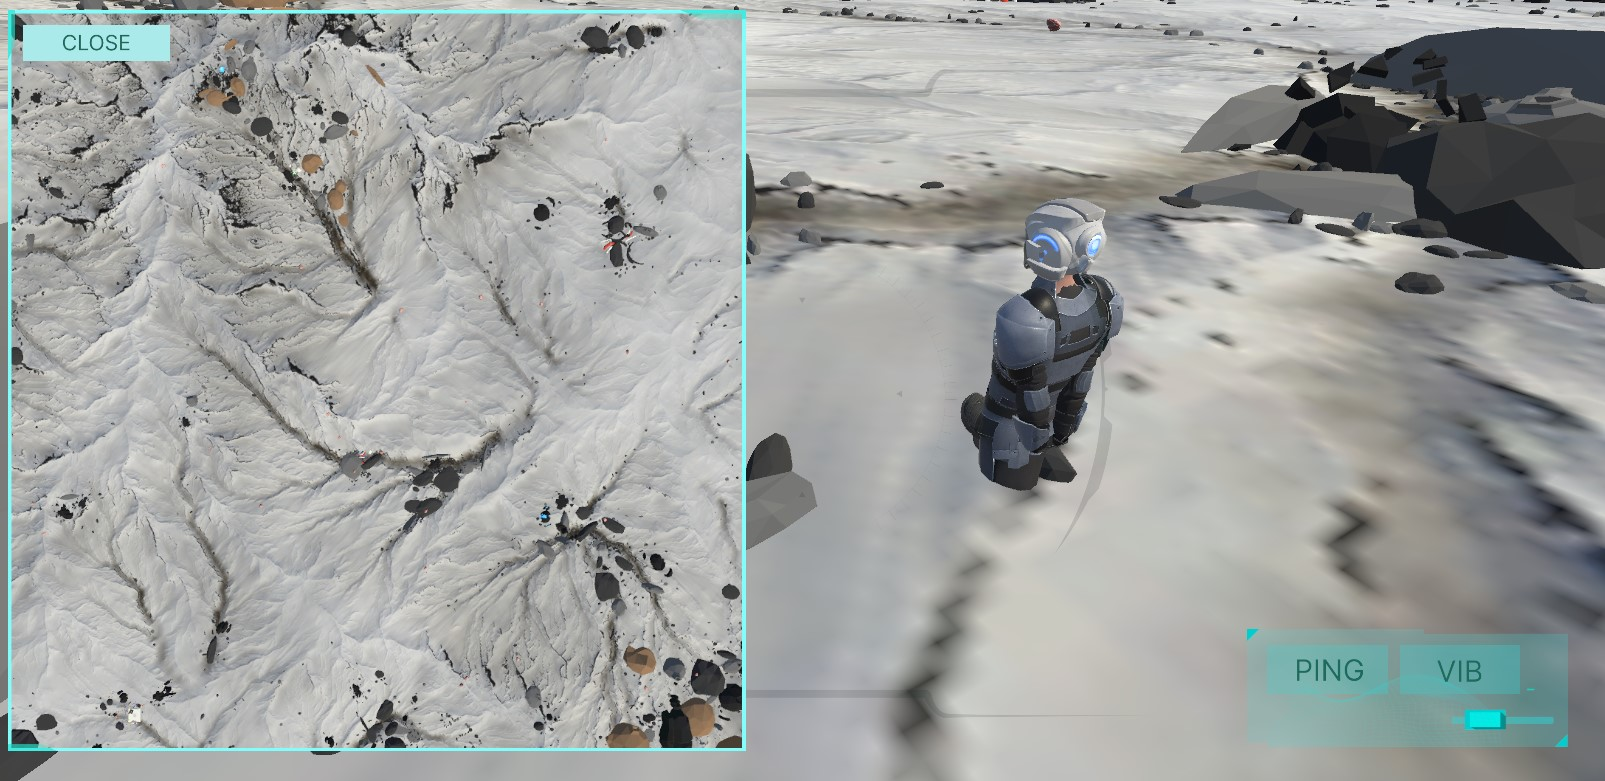
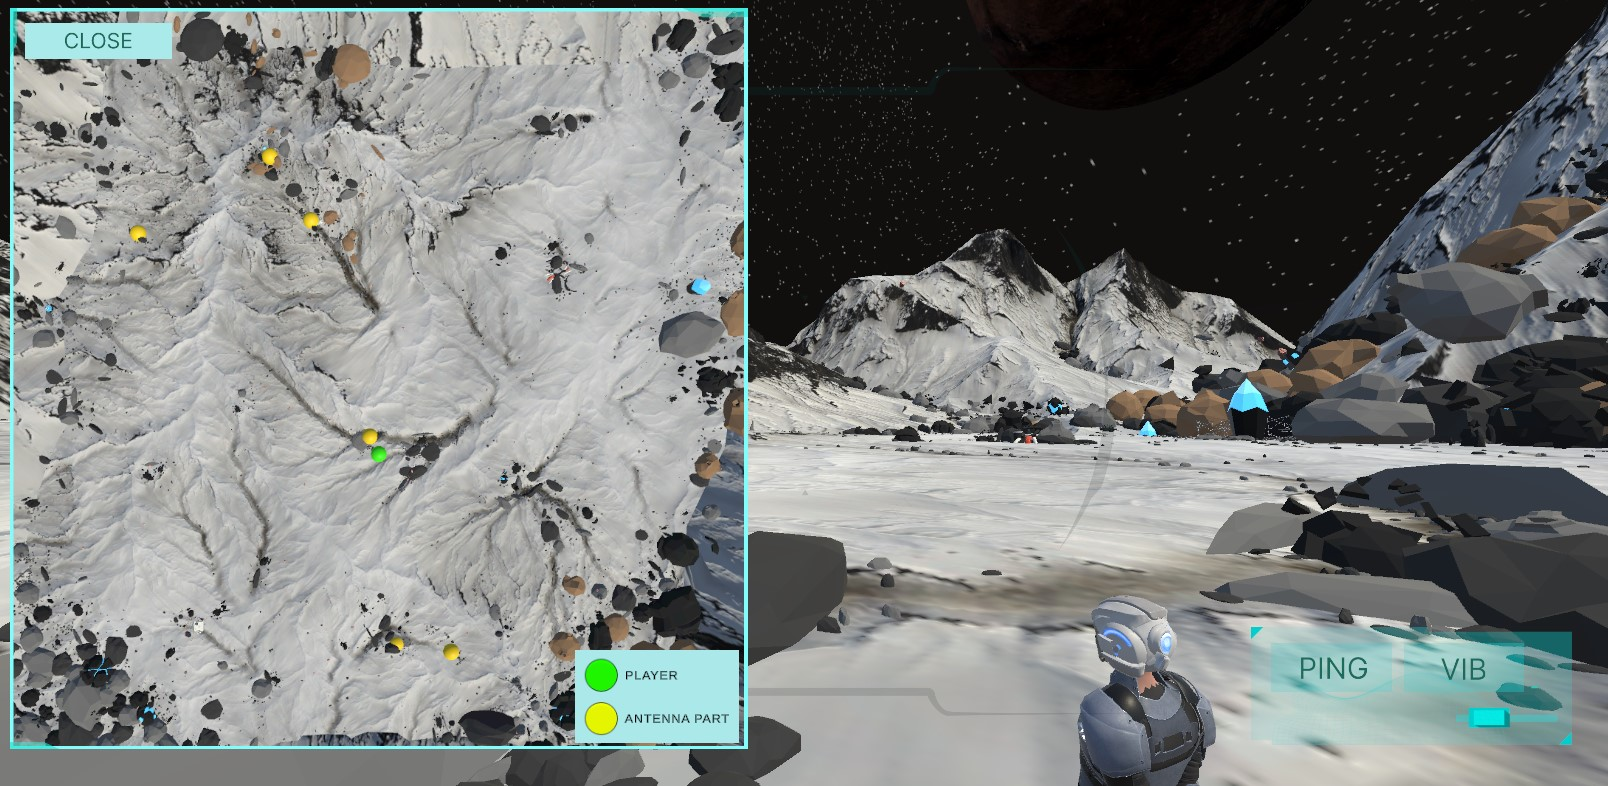
changes in features.md layout and text, minor changes in _index.md

diff --git a/content/ss22/master/m2_4-fixIT-communication-is-everything/features.md b/content/ss22/master/m2_4-fixIT-communication-is-everything/features.md
@@ -6,126 +6,106 @@ weight = 1
 
 {{<section title="Extendable first version" >}}
 Throughout the semester we were able to design and develop a first version of our game. 
-Due to the limited time, we had to set aside many ideas and compromise on several aspects of the final game design. 
-Keeping that in mind, we made sure to design all aspects of our game intuitively and with a flat code structure so 
-that the software remains easily extensible. Additionally, we created a documentation of all the tools, assets and 
-further preparations that are needed to get this project up and running.
+Due to the limited time we had to set aside many ideas and compromise on several aspects of the final game design. 
+Keeping that in mind, we made sure to design all aspects of our game intuitively so that the software remains easily 
+extensible. Additionally, we created a documentation of all the tools, assets and further preparations that are 
+needed to get this project up and running.
+
 {{</section>}}
 
 {{<section title="In-game tasks" >}}
 The core mechanic of the game is to exchange non-verbal information between players on different terminal devices. 
-Therefore, we created a setup where information was distributed between the two players so that it was necessary to 
+Therefore, we created a setup where information was distributed between the two players so that it is necessary to 
 exchange instructions to solve all the tasks presented during the game.
 
-We created a scenario where the VR player was teleported to a lost planet to repair a broken and lost onboard-antenna. 
-The PC player stayed behind on the spaceship to monitor the other player's activities and retrieve important 
+We created a scenario where the VR player is teleported to a lonely planet to repair a broken onboard antenna. 
+The PC player stays behind on the spaceship to monitor the other player's activities and retrieve important 
 information from the ship's computer.
 
-<div style="display: table; clear: both">
-    <div style="float: left; height: 250px; width: 50%; padding: 0 10px;">
-        <iframe style="display: block; margin-left: auto; margin-right: auto; overflow: hidden; border: 0" src="https://mediathek.htw-berlin.de/media/embed?key=0910771e56f49906f7deabbfe9bb881e&width=720&height=540&autoplay=false&controls=true&autolightsoff=false&loop=false&chapters=false&playlist=false&related=false&responsive=false&t=0&loadonclick=true&thumb=true" data-src="https://mediathek.htw-berlin.de/media/embed?key=0910771e56f49906f7deabbfe9bb881e&width=720&height=540&autoplay=false&controls=true&autolightsoff=false&loop=false&chapters=false&playlist=false&related=false&responsive=false&t=0&loadonclick=true" class="" width="300" height="165" allowfullscreen="allowfullscreen" allowtransparency="true" aria-label="media embed code"></iframe>
-        <p style="color:#ff7578; text-transform: uppercase; text-align: center">VR view in environment</p>
-    </div>
-    <div style="float: left; height: 250px; width: 50%; padding: 0 10px;">
-        <img style="display: block; margin-left: auto; margin-right: auto;" src="/ss22/master/m2_4-fixit-communication-is-everything/pc_view_with_open_minimap.jpg" alt="pc view with opened minimap">
-        <p style="color:#ff7578; text-transform: uppercase; text-align: center">PC view with opened minimap</p>
-    </div>
-</div>
-
-
+<figure>
+    <iframe src="https://mediathek.htw-berlin.de/media/embed?key=0910771e56f49906f7deabbfe9bb881e&width=720&height=405&autoplay=false&controls=true&autolightsoff=false&loop=false&chapters=false&playlist=false&related=false&responsive=false&t=0&loadonclick=true&thumb=true" data-src="https://mediathek.htw-berlin.de/media/embed?key=0910771e56f49906f7deabbfe9bb881e&width=720&height=405&autoplay=false&controls=true&autolightsoff=false&loop=false&chapters=false&playlist=false&related=false&responsive=false&t=0&loadonclick=true" class="" width="720" height="405" frameborder="0" allowfullscreen="allowfullscreen" allowtransparency="true" scrolling="no" aria-label="media embed code" style="display: block; margin: 0 auto"></iframe>
+    <p style="color:#ff7578; text-transform: uppercase; text-align: center; margin-top: 10px">An insight of the VR environment</p>
+</figure>
 #### Calibration of desk
-One of the first tasks that needed to be solved by the VR player, was the calibration of a real-world desk. 
-This did not only ensure that the player got familiar with the virtual environment and the controls of the game it was 
-also vital for the subsequent gameplay. Since we included a table in the real-world as a haptic element, we needed to 
-make sure that the player was always protected while walking and teleporting around the environment freely.  
-Therefore, we installed safe walls around the virtual table that prevented the player from bumping into the real-world table.
+One of the first tasks that needs to be solved by the VR player, is the calibration of a real-world desk. 
+This does not only ensure that the player gets familiar with the virtual environment and the controls of the game it 
+is also vital for the subsequent gameplay. Since we included a table in the real-world as a haptic element, we needed 
+to make sure that the player is always protected while walking and teleporting around the environment freely. 
+Therefore, we installed safe walls around the virtual table that prevented the player from bumping into the table.
 
 <figure>
-<iframe src="https://mediathek.htw-berlin.de/media/embed?key=b1b17b0f84861e66fabb6fca24100006&width=720&height=401&autoplay=false&controls=true&autolightsoff=false&loop=false&chapters=false&playlist=false&related=false&responsive=false&t=0&loadonclick=true&thumb=true" data-src="https://mediathek.htw-berlin.de/media/embed?key=b1b17b0f84861e66fabb6fca24100006&width=720&height=401&autoplay=false&controls=true&autolightsoff=false&loop=false&chapters=false&playlist=false&related=false&responsive=false&t=0&loadonclick=true" class="" width="720" height="401" allowfullscreen="allowfullscreen" allowtransparency="true" aria-label="media embed code" style="overflow: hidden; border: 0"></iframe>
-<p style="color:#ff7578; text-transform: uppercase; text-align: center">Calibration of the safe walls</p>
+    <iframe src="https://mediathek.htw-berlin.de/media/embed?key=b1b17b0f84861e66fabb6fca24100006&width=720&height=401&autoplay=false&controls=true&autolightsoff=false&loop=false&chapters=false&playlist=false&related=false&responsive=false&t=0&loadonclick=true&thumb=true" data-src="https://mediathek.htw-berlin.de/media/embed?key=b1b17b0f84861e66fabb6fca24100006&width=720&height=401&autoplay=false&controls=true&autolightsoff=false&loop=false&chapters=false&playlist=false&related=false&responsive=false&t=0&loadonclick=true" class="" width="720" height="401" frameborder="0" allowfullscreen="allowfullscreen" allowtransparency="true" scrolling="no" aria-label="media embed code" style="display: block; margin: 0 auto"></iframe>
+    <p style="color:#ff7578; text-transform: uppercase; text-align: center; margin-top: 10px">Calibration of the safe walls</p>
 </figure>
 
 #### Finding antenna parts
-During the first part the VR player had to find a total of six lost antenna parts randomly hidden in the environment. 
-The PC player had access to a minimap that displayed the locations of the parts. Once the VR player found an antenna 
-part, it could be stowed away in an item pouch and automatically appeared on the table as the game progressed.
+During the first part the VR player has to find a total of six lost antenna parts randomly hidden in the environment.
+Once the VR player found an antenna part, it can be stowed away in an item pouch and automatically appears on the 
+table as the game progressed. The PC player meanwhile has access to a minimap that displays the locations of the parts.
 
+{{<image src="pc_view_with_open_minimap.jpg" alt="pc view with opened minimap" caption="PC view with opened minimap">}}
+
+
+We included three haptic elements to facilitate communication between the players. 
+To convey spatial information, the PC player can firstly set off a vibration signal to the VR controllers. The speed with which the PC player presses the corresponding button 
+gives the player in VR information about how close or far away the next antenna part is.
+
+Additionally, we set up a button that enables the PC player to trigger a sound signal on the VR headset. 
+This not only serves to convey location information, but also provides the ability to give audible feedback to the 
+VR players as they solved tasks.
+
+Lastly, the VR player can also use the controller to draw on the ground. The PC player can control the camera that 
+follows the VR avatar to zoom in on the drawings.
+
+<figure>
+    <iframe src="https://mediathek.htw-berlin.de/media/embed?key=78c90c9eb3ccca9e3acc48b16efa313a&width=720&height=405&autoplay=false&controls=true&autolightsoff=false&loop=false&chapters=false&playlist=false&related=false&responsive=false&t=0&loadonclick=true&thumb=true" data-src="https://mediathek.htw-berlin.de/media/embed?key=78c90c9eb3ccca9e3acc48b16efa313a&width=720&height=405&autoplay=false&controls=true&autolightsoff=false&loop=false&chapters=false&playlist=false&related=false&responsive=false&t=0&loadonclick=true" class="" width="720" height="405" frameborder="0" allowfullscreen="allowfullscreen" allowtransparency="true" scrolling="no" aria-label="media embed code" style="display: block; margin: 0 auto"></iframe>
+    <p style="color:#ff7578; text-transform: uppercase; text-align: center; margin-top: 10px">Drawing on the floor with controller</p>
+</figure>
 #### Assembling the antenna
-After all parts had been found, the VR player had to assemble them correctly. The corresponding instructions were 
-provided to the PC player in the form of a video. The VR player had three attempts to assemble the antenna correctly, 
-while each antenna part could be removed and placed again individually. If the task wasn’t accomplished, we presented 
-an option to automatically assemble the antenna correctly.
+After all parts are found, the VR player must assemble them correctly. The corresponding instructions are provided 
+to the PC player in the form of a video. The PC player must now draw these instructions on a notepad, simply using 
+the computer mouse or, alternatively, a drawing trackpad. The drawings appear next to the VR player on a display.
 
-<div style="display: table; clear: both; width:720px ">
-    <div style="float: left; height: 250px; width: 50%; padding: 10px 10px 0 10px;">
-        <iframe style="display: block; margin-left: auto; margin-right: auto; overflow: hidden; border: 0" src="https://mediathek.htw-berlin.de/media/embed?key=1e476480785fe71a378e6a364ca3bfdf&width=720&height=405&autoplay=true&controls=true&autolightsoff=false&loop=true&chapters=false&playlist=false&related=false&responsive=false&t=0&loadonclick=true&thumb=true" data-src="https://mediathek.htw-berlin.de/media/embed?key=1e476480785fe71a378e6a364ca3bfdf&width=720&height=405&autoplay=true&controls=true&autolightsoff=false&loop=true&chapters=false&playlist=false&related=false&responsive=false&t=0&loadonclick=true" class="" width="300" height="168" allowfullscreen="allowfullscreen" allowtransparency="true" aria-label="media embed code"></iframe>
-        <p style="color:#ff7578; text-transform: uppercase;  text-align: center">Assembling antenna in VR</p>
-    </div>
-    <div style="float: left; height: 250px; width: 50%; padding: 0 10px;">
-        <iframe style="display: block; margin-left: auto; margin-right: auto; margin-bottom: 10px; overflow: hidden; border: 0" src="https://mediathek.htw-berlin.de/media/embed?key=5d653196a2df4273f1eee5a1f9a08e55&width=720&height=405&autoplay=true&controls=true&autolightsoff=false&loop=true&chapters=false&playlist=false&related=false&responsive=false&t=0&loadonclick=true&thumb=true" data-src="https://mediathek.htw-berlin.de/media/embed?key=5d653196a2df4273f1eee5a1f9a08e55&width=720&height=405&autoplay=true&controls=true&autolightsoff=false&loop=true&chapters=false&playlist=false&related=false&responsive=false&t=0&loadonclick=true" class="" width="300" height="168" allowfullscreen="allowfullscreen" allowtransparency="true" aria-label="media embed code"></iframe>
-        <p style="color:#ff7578; text-transform: uppercase; text-align: center">Assembling antenna in real life</p>
-    </div>
-</div>
+<figure>
+    <iframe src="https://mediathek.htw-berlin.de/media/embed?key=63ef76467742db9951f5b93c0b54a2e8&width=720&height=405&autoplay=false&controls=true&autolightsoff=false&loop=false&chapters=false&playlist=false&related=false&responsive=false&t=0&loadonclick=true&thumb=true" data-src="https://mediathek.htw-berlin.de/media/embed?key=63ef76467742db9951f5b93c0b54a2e8&width=720&height=405&autoplay=false&controls=true&autolightsoff=false&loop=false&chapters=false&playlist=false&related=false&responsive=false&t=0&loadonclick=true" class="" width="720" height="405" frameborder="0" allowfullscreen="allowfullscreen" allowtransparency="true" scrolling="no" aria-label="media embed code" style="display: block; margin: 0 auto"></iframe>
+    <p style="color:#ff7578; text-transform: uppercase; text-align: center; margin-top: 10px">PC to VR drawing instructions for assembly</p>
+</figure>
+
+With these communication technologies, the VR player has three attempts to assemble the antenna correctly, while 
+each antenna part can be removed and placed again individually. If the task can’t be accomplished, an option 
+appears to automatically assemble the antenna correctly for the player.
+
+<figure>
+    <iframe src="https://mediathek.htw-berlin.de/media/embed?key=87dcc43aec6f64ec24ae82903585065a&width=720&height=405&autoplay=false&controls=true&autolightsoff=false&loop=false&chapters=false&playlist=false&related=false&responsive=false&t=0&loadonclick=true&thumb=true" data-src="https://mediathek.htw-berlin.de/media/embed?key=87dcc43aec6f64ec24ae82903585065a&width=720&height=405&autoplay=false&controls=true&autolightsoff=false&loop=false&chapters=false&playlist=false&related=false&responsive=false&t=0&loadonclick=true" class="" width="720" height="405" frameborder="0" allowfullscreen="allowfullscreen" allowtransparency="true" scrolling="no" aria-label="media embed code" style="display: block; margin: 0 auto"></iframe>
+    <p style="color:#ff7578; text-transform: uppercase; text-align: center; margin-top: 10px">Assembling the antenna - VR vs real life</p>
+</figure>
 
 #### Choosing correct buttons
-As a final task, the PC player was shown a control panel on which buttons with different runes were displayed. 
-The VR player was now shown which symbols should be pressed and in which order. The completion of the task activated 
-the antenna and triggered a final video that showed the activation of the antenna and how the VR player was teleported 
-back to the spacecraft.
-
+As a final task, the PC player is presented with a control panel that displays buttons with various runes.
 {{<image src="pc_view_with_open_controlpanel.jpg" alt="PC View with opened control panel" caption="PC GUI with opened control panel">}}
 
-{{</section>}}
+The VR player is now shown which buttons should be pressed and in which order. The VR player can also draw with 
+their finger on a predetermined area on the real-world table. Once the task is completed the antenna 
+is activated and triggers a final video that shows how the VR player was teleported back to the spacecraft.
 
-{{<section title="Haptics" >}}
-#### Vibration
-To convey spatial information, the PC player was able to set of a vibration signal to the VR controllers. 
-The speed with which the PC player pressed the corresponding button gave the player in VR information about how close 
-or far away the next antenna part was.
-
-#### Sound signal
-Similarly, we set up a button that enabled the PC player to trigger a sound signal on the VR headset. 
-This not only served to convey location information, but also provided the ability to give audible feedback to the VR 
-players as they solved tasks.
-
-#### Drawing with controller & hands
-Both players were able to draw at certain points during the game. On the PC, this was done simply with the computer 
-mouse or, alternatively, with a drawing trackpad; in VR, players could draw either with the controller on the floor 
-of the real world or with their finger on a predetermined area on the table.
-
-<div style="display: table; clear: both; margin-top: 20px">
-    <div style="float: left; height: 250px; width: 50%; padding: 10px 10px 0 10px;">
-        <iframe style="display: block; margin-left: auto; margin-right: auto; overflow: hidden; border: 0" src="https://mediathek.htw-berlin.de/media/embed?key=9ee31c6a842a84194eb514d139b8c6b5&width=720&height=405&autoplay=false&controls=true&autolightsoff=false&loop=false&chapters=false&playlist=false&related=false&responsive=false&t=0&loadonclick=true&thumb=true" data-src="https://mediathek.htw-berlin.de/media/embed?key=9ee31c6a842a84194eb514d139b8c6b5&width=720&height=405&autoplay=false&controls=true&autolightsoff=false&loop=false&chapters=false&playlist=false&related=false&responsive=false&t=0&loadonclick=true" class="" width="300" height="168" allowfullscreen="allowfullscreen" allowtransparency="true" aria-label="media embed code"></iframe>
-        <p style="color:#ff7578; text-transform: uppercase; text-align: center">Drawing with finger in VR</p>
-    </div>
-    <div style="float: left; height: 250px; width: 50%; padding: 0 10px;">
-        <iframe style="display: block; margin-left: auto; margin-right: auto; margin-bottom: 10px; overflow: hidden; border: 0" src="https://mediathek.htw-berlin.de/media/embed?key=7908b34132e0e4b021b8440923f485b2&width=720&height=540&autoplay=false&controls=true&autolightsoff=false&loop=false&chapters=false&playlist=false&related=false&responsive=false&t=0&loadonclick=true&thumb=true" data-src="https://mediathek.htw-berlin.de/media/embed?key=7908b34132e0e4b021b8440923f485b2&width=720&height=540&autoplay=false&controls=true&autolightsoff=false&loop=false&chapters=false&playlist=false&related=false&responsive=false&t=0&loadonclick=true" class="" width="300" height="168" allowfullscreen="allowfullscreen" allowtransparency="true" aria-label="media embed code"></iframe>
-        <p style="color:#ff7578; text-transform: uppercase; text-align: center">Drawing with finger in real life</p>
-    </div>
-</div>
+<figure>
+    <iframe src="https://mediathek.htw-berlin.de/media/embed?key=05dd292425d2a3159722a071657b8411&width=720&height=405&autoplay=false&controls=true&autolightsoff=false&loop=false&chapters=false&playlist=false&related=false&responsive=false&t=0&loadonclick=true&thumb=true" data-src="https://mediathek.htw-berlin.de/media/embed?key=05dd292425d2a3159722a071657b8411&width=720&height=405&autoplay=false&controls=true&autolightsoff=false&loop=false&chapters=false&playlist=false&related=false&responsive=false&t=0&loadonclick=true" class="" width="720" height="405" frameborder="0" allowfullscreen="allowfullscreen" allowtransparency="true" scrolling="no" aria-label="media embed code" style="display: block; margin: 0 auto"></iframe>
+    <p style="color:#ff7578; text-transform: uppercase; text-align: center; margin-top: 10px">Drawing with hands - VR vs real life</p>
+</figure>
 
 {{</section>}}
-
 
 {{<section title="Items" >}}
-During game play the VR player was not only able to switch between controller and hand tracking input but could also 
-choose two additional items. The first one was a metal detector The first element was a metal detector that received 
-the sound and vibration signals from the PC player and thus showed the VR player the right way to the antenna parts.
+During game play the VR player can not only switch between controller and hand tracking input but can also choose two 
+additional items. The first element is a metal detector that receives the sound and vibration signals from the 
+PC player and thus shows the VR player the right way to the antenna parts. The second element is a magnifying 
+glass that can be used to make the antenna parts visible: an item only becomes visible and collectible in the 
+virtual world if the player has looked through the magnifying glass and spotted the item. Both items can be accessed 
+via a hand menu implemented on the VR controller.
 
-The second element was a magnifying glass that the VR player had to use to make the antenna parts visible: 
-Only when the player looked through the magnifying glass at the item did it become visible in the virtual world and the 
-player could collect it.
-
-<div style="display: table; clear: both; margin-top: 20px;">
-    <div style="float: left; height: 250px; width: 50%; padding: 0 10px;">
-        <iframe style="display: block; margin-left: auto; margin-right: auto; overflow: hidden; border: 0;" src="https://mediathek.htw-berlin.de/media/embed?key=c67dd70e22e835a933b86dd1fbe87e4e&width=720&height=405&autoplay=false&controls=true&autolightsoff=false&loop=false&chapters=false&playlist=false&related=false&responsive=false&t=0&loadonclick=true&thumb=true" data-src="https://mediathek.htw-berlin.de/media/embed?key=c67dd70e22e835a933b86dd1fbe87e4e&width=720&height=405&autoplay=false&controls=true&autolightsoff=false&loop=false&chapters=false&playlist=false&related=false&responsive=false&t=0&loadonclick=true" class="" width="300" height="168" allowfullscreen="allowfullscreen" allowtransparency="true" aria-label="media embed code"></iframe>
-        <p style="color:#ff7578; text-transform: uppercase; text-align: center">Item: magnifying glass</p>
-    </div>
-    <div style="float: left; height: 250px; width: 50%; padding: 0 10px;">
-        <iframe style="display: block; margin-left: auto; margin-right: auto; overflow: hidden; border: 0;" src="https://mediathek.htw-berlin.de/media/embed?key=13568410c430a67d9b0653b43423b7f6&width=720&height=405&autoplay=false&controls=true&autolightsoff=false&loop=false&chapters=false&playlist=false&related=false&responsive=false&t=0&loadonclick=true&thumb=true" data-src="https://mediathek.htw-berlin.de/media/embed?key=13568410c430a67d9b0653b43423b7f6&width=720&height=405&autoplay=false&controls=true&autolightsoff=false&loop=false&chapters=false&playlist=false&related=false&responsive=false&t=0&loadonclick=true" class="" width="300" height="168" allowfullscreen="allowfullscreen" allowtransparency="true" aria-label="media embed code"></iframe>
-        <p style="color:#ff7578; text-transform: uppercase; text-align: center">Item: metal detector</p>
-    </div>
-</div>
-
+<figure>
+    <iframe src="https://mediathek.htw-berlin.de/media/embed?key=67c6cf324f2472a735598831417afcca&width=720&height=405&autoplay=false&controls=true&autolightsoff=false&loop=false&chapters=false&playlist=false&related=false&responsive=false&t=0&loadonclick=true&thumb=true" data-src="https://mediathek.htw-berlin.de/media/embed?key=67c6cf324f2472a735598831417afcca&width=720&height=405&autoplay=false&controls=true&autolightsoff=false&loop=false&chapters=false&playlist=false&related=false&responsive=false&t=0&loadonclick=true" class="" width="720" height="405" frameborder="0" allowfullscreen="allowfullscreen" allowtransparency="true" scrolling="no" aria-label="media embed code" style="display: block; margin: 0 auto"></iframe>
+    <p style="color:#ff7578; text-transform: uppercase; text-align: center; margin-top: 10px">Handmenu with items: metal detector and magnifying glass</p>
+</figure>
 
 {{</section>}}

diff --git a/content/ss22/master/m2_4-fixIT-communication-is-everything/_index.md b/content/ss22/master/m2_4-fixIT-communication-is-everything/_index.md
@@ -21,10 +21,16 @@ supervisor = "Jonas Ehrhardt, Alexander Kramer"
 
 
 {{<section title="The Objective">}}
-In recent years, we have witnessed the increasing integration of virtual realities into our everyday lives. But the realistic representation of the world has its limits when it comes to interaction and haptics.
-Therefore, we wanted to explore whether these technologies are sufficient to exchange information and solve tasks together even if players are not using the same terminal device.
+In recent years, we have witnessed the increasing integration of virtual realities into our everyday lives. 
+But the realistic representation of the world has its limits when it comes to interaction and haptics.
+Therefore, we wanted to explore whether these technologies are sufficient to exchange information and solve tasks 
+together even if players are not using the same terminal device.
 
-With FixIT, we developed a multimodal game that requires nonverbal communication between a PC player and on in VR. User tests showed that players were able to communicate effectively using the proposed technologies, even when one person was playing in VR and the other was not. The communication modalities used created a noticeable social presence between the two players, even when they could not see or hear each other.
+With FixIT, we developed a multimodal game that requires nonverbal communication between a PC player and on in VR. 
+We expect user tests to show that players are able to communicate effectively using the proposed technologies, 
+even when one person is playing in VR and the other is not. We also expect that the communication modalities we 
+used create a noticeable social presence between the two players, even when they can’t see or hear each other.
+The final results will be presented at this year's Showtime.
 {{</section>}}
 
 {{<section title="The Team">}}
